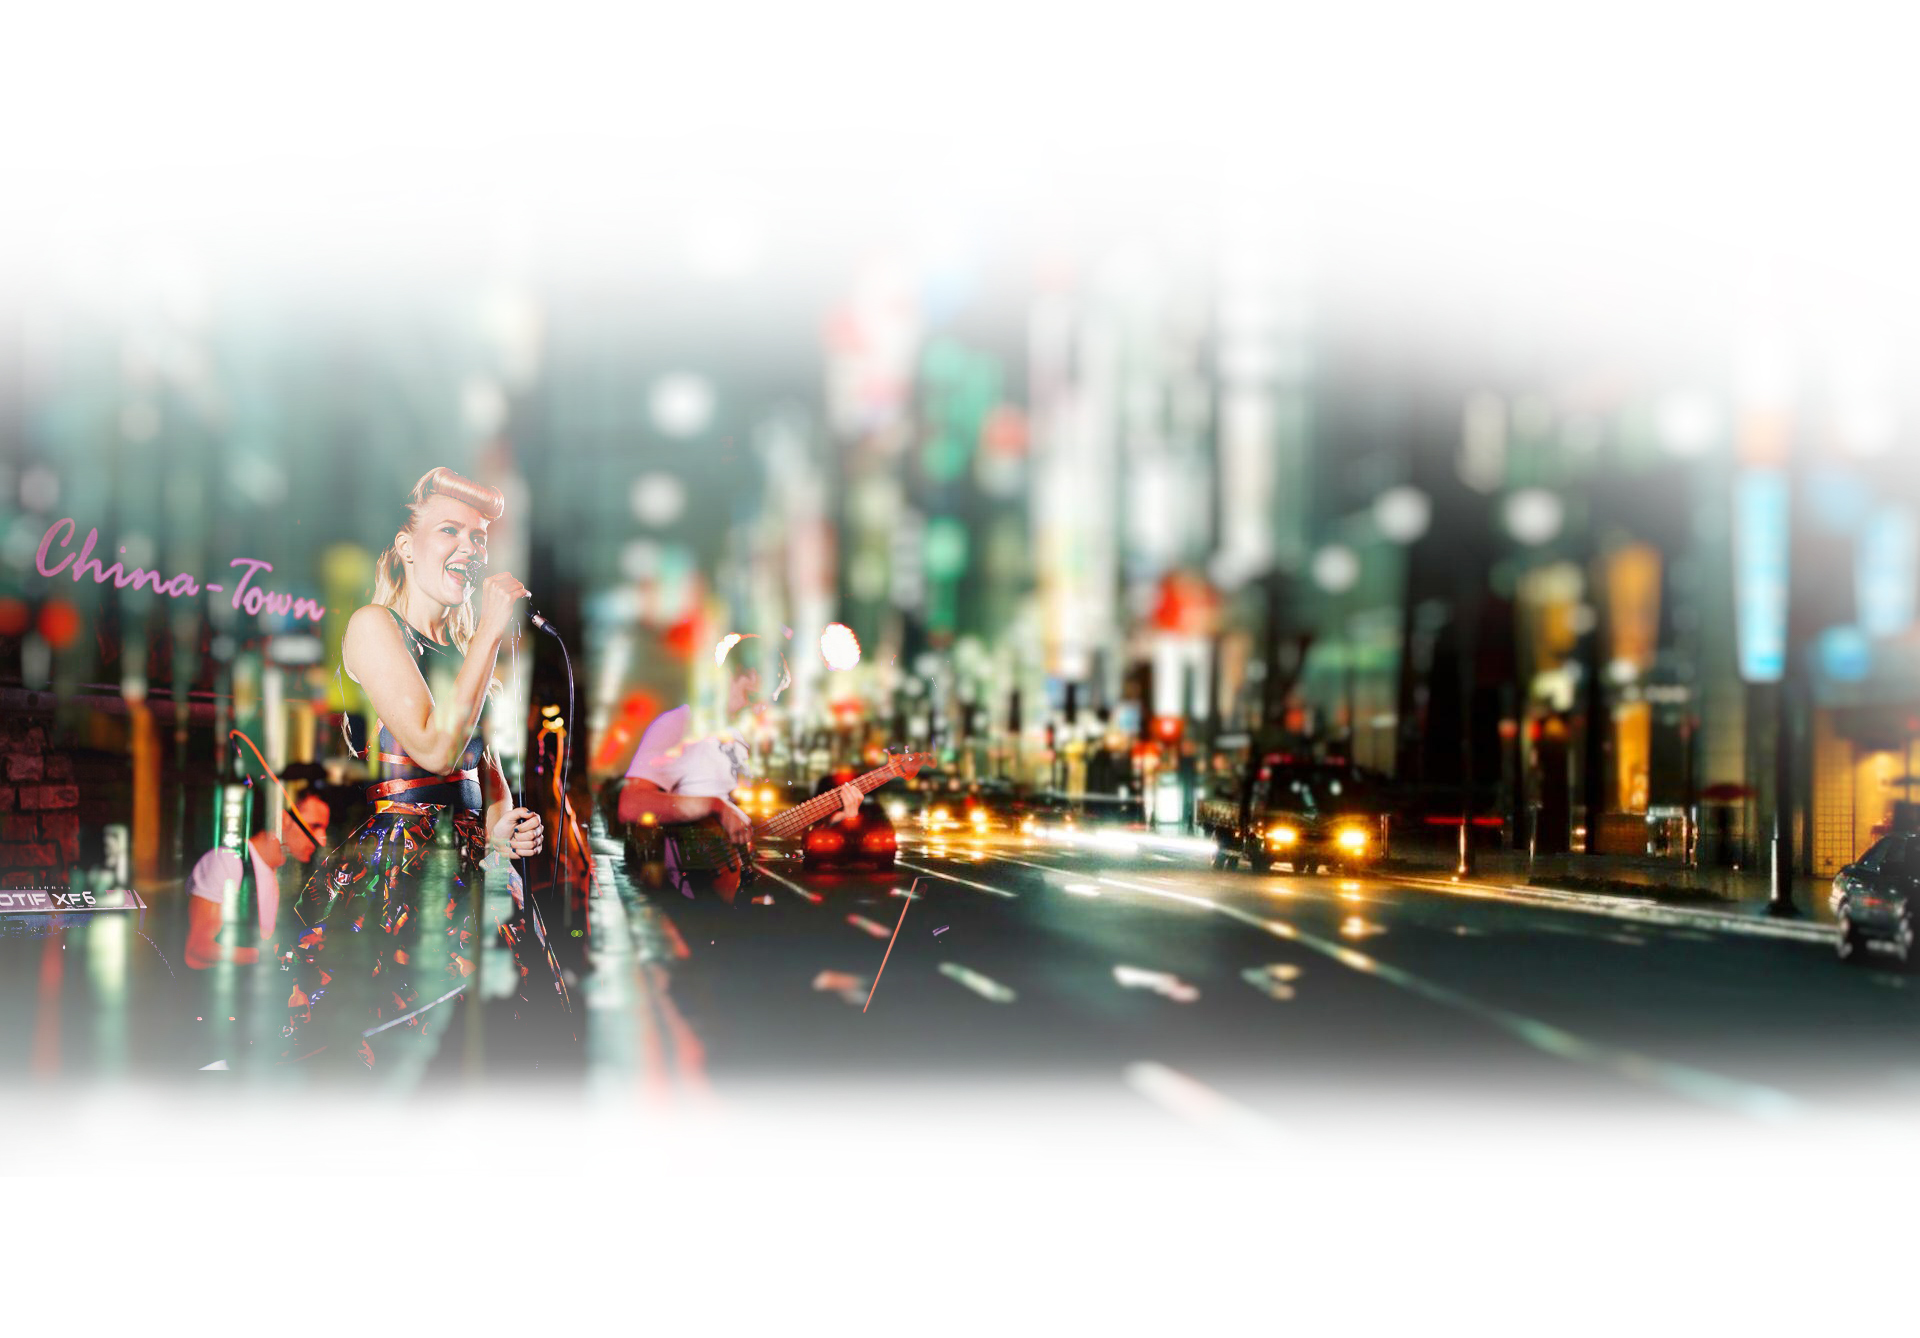
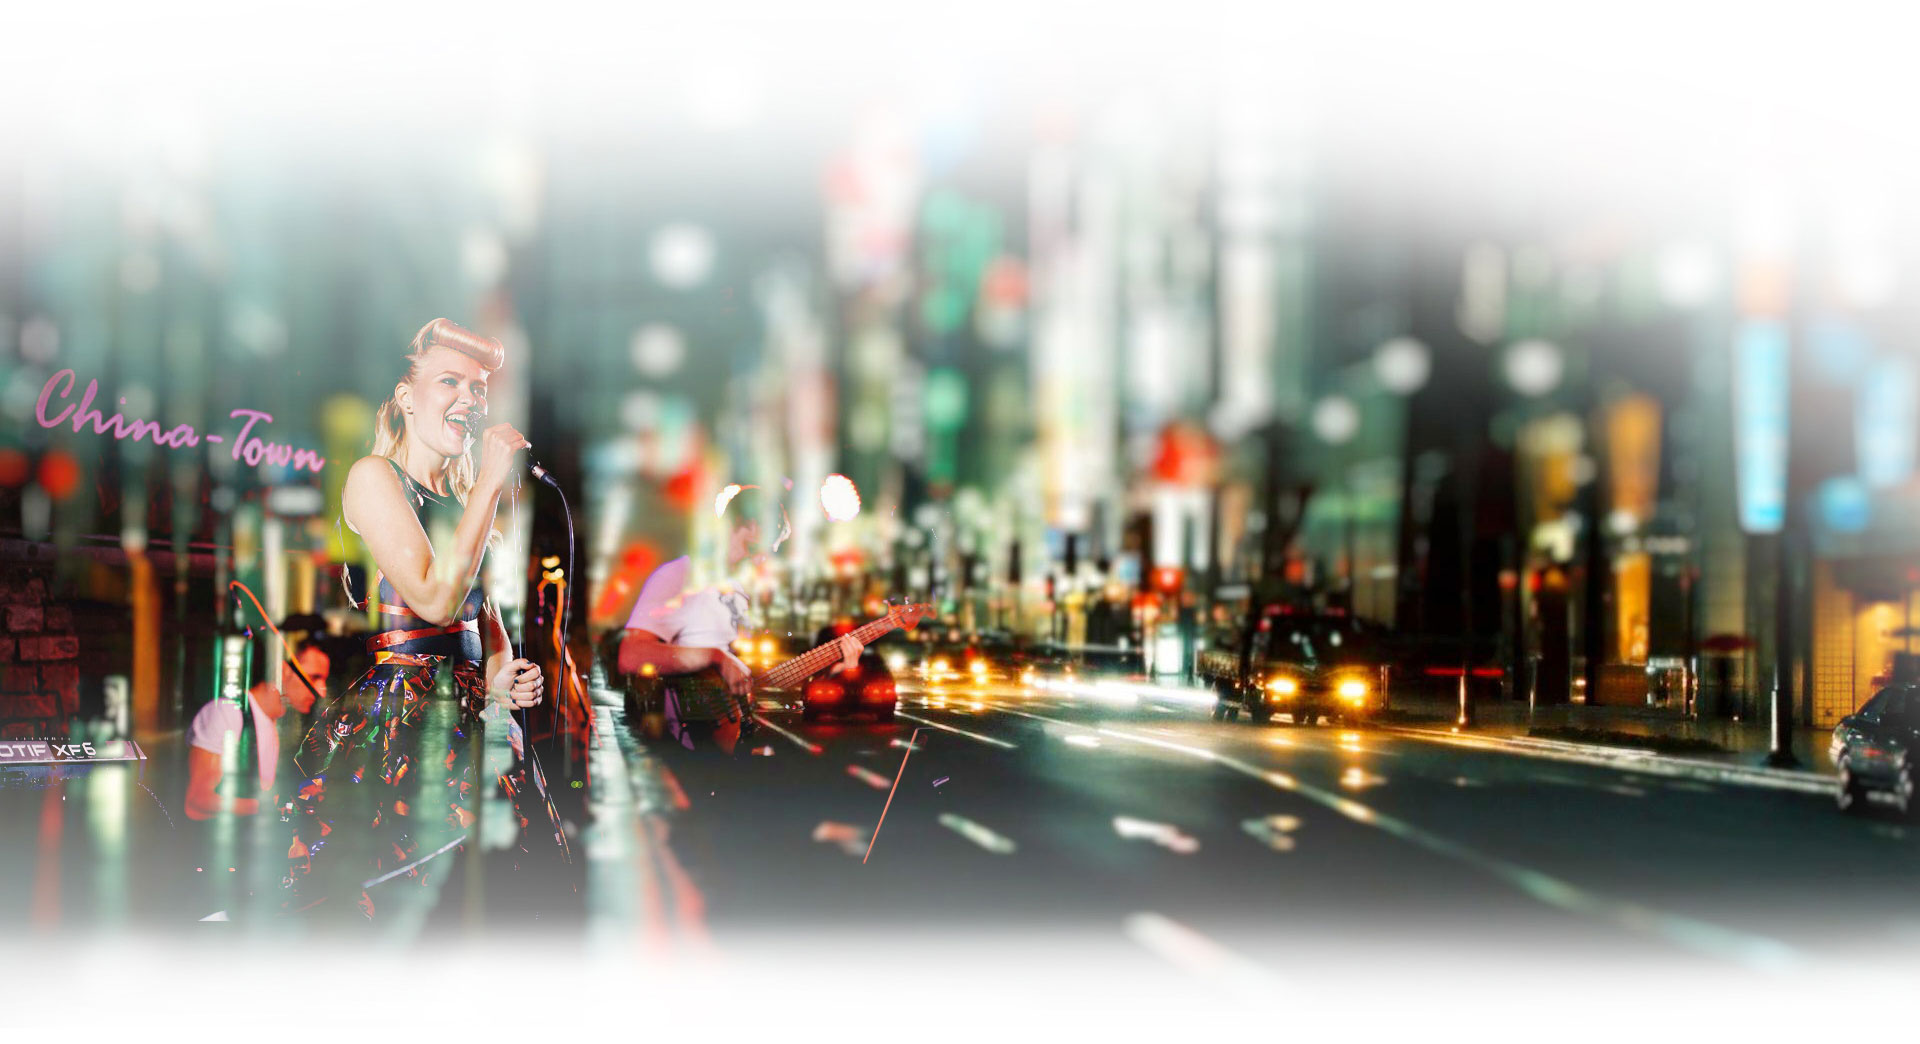
fix

diff --git a/app/vocal.html b/app/vocal.html
@@ -166,6 +166,7 @@
         </div>
 
     </div>
+    <img src="img/vocal/pc.jpg" alt="">
 </section>
 
 <section class="block-3">
@@ -407,7 +408,89 @@
                 </div>
             </div>
 
+            <div id="carousel-example-generic" class="carousel slide" data-ride="carousel">
+                <!-- Indicators -->
+                <ol class="carousel-indicators">
+                    <li data-target="#carousel-example-generic" data-slide-to="0" class="active"></li>
+                    <li data-target="#carousel-example-generic" data-slide-to="1"></li>
+                    <li data-target="#carousel-example-generic" data-slide-to="2"></li>
+                </ol>
 
+                <!-- Wrapper for slides -->
+                <div class="carousel-inner" role="listbox">
+                    <div class="item active">
+                        <div class="row">
+                            <div class="col-md-4">
+                                <img src="img/vocal/review1.jpg" alt="" class="img-responsive">
+                            </div>
+                            <div class="col-md-8">
+                                <p class="review-text">
+                                    Хотелось выразить огромную благодарность преподавателям GuitarPlays. Очень хочется рассказать об учителе по вокалу, Ане. Прекрасный преподаватель, талантливая певица с удивительным голосом и чуткий, замечательный человек. Когда я начала ходить на гитару, то поняла, что владение голосом тоже очень важно, и гитара, и голос как два крыла птицы, гармоничное сочетание которых необходимо для полета. С каждым уроком прибавляется уверенность в себе, лучше чувствуешь свой голос, ощущаешь и слышишь музыку, Аня, как опытный дирижер, направляет, поправляет и помогает раскрыть новые возможности голоса, пробуждая желать петь, петь и еще раз петь!
+                                </p>
+                                <p class="review-author">
+                                    <a href="https://vk.com/topic-75660020_31509713?post=88" target="_blank">
+                                        Полина Ильина
+                                    </a>
+                                </p>
+                            </div>
+                        </div>
+                    </div>
+                    <div class="item">
+                        <div class="row">
+                            <div class="col-md-4 col-md-push-8">
+                                <img src="img/vocal/review2.jpg" alt="" class="img-responsive">
+                            </div>
+                            <div class="col-md-8 col-md-pull-4">
+                                <p class="review-text">
+                                    Хочу сказать огромное спасибо преподавателю
+                                    по вокалу - Ане!!! Ходить к ней на занятия одно удовольствие) Аня профессиональный, внимательный, чуткий преподаватель, который находит особенный подход к ученику. Всегда подскажет и доступно объяснит, что нужно сделать и как сделать это правильно! Действительно переживает за свое
+                                    дело, за ученика, за его прогресс и результат)
+                                    Часто рекомендует материал для расширения музыкальных горизонтов, что очень здорово!)
+                                    И всегда учит, что главное – это получать от
+                                    всего этого дела кайф) Так и выходит)
+
+                                    А еще Аня замечательный и приятный
+                                    в общении человек
+
+
+
+                                </p>
+                                <p class="review-author">
+                                    <a href="https://vk.com/topic-75660020_31509713?post=89" target="_blank">Арина Цой</a>
+
+                                </p>
+                            </div>
+
+
+                        </div>
+                    </div>
+                    <div class="item">
+                        <div class="row">
+                            <div class="col-md-4">
+                                <img src="img/vocal/review3.jpg" alt="" class="img-responsive">
+                            </div>
+                            <div class="col-md-8">
+                                <p class="review-text">
+                                    Всё началось с того, что увидела вывеску GuirarPlays
+                                    и решила спросить есть уроки вокала, оказывается
+                                    в этой школе есть чудесный преподаватель, гуру по пению Аня!!! Очень грамотный педагог, можно с нуля научиться красиво петь!!! Моя мечта сбылась, я с каждым уроком все красивее и лучше пою, это уникальная возможность развить свой голос и управлять им не только в пении и в жизни!!!
+                                </p>
+                                <p class="review-author">
+                                    <a href="https://vk.com/topic-75660020_31509713?post=94" target="_blank">Ольга Лукичева</a>
+                                </p>
+                                <a href="https://vk.com/topic-75660020_31509713" target="_blank">
+                                    <button class="header--form__btn">Больше отзывов</button>
+                                </a>
+                            </div>
+                        </div>
+                    </div>
+                </div>
+
+                <a href="https://vk.com/topic-75660020_31509713?post=88" target="_blank">
+                    <button class="header--form__btn">Больше отзывов</button>
+                </a>
+
+            </div>
         </div>
     </div>
 </section>

diff --git a/app/sass/main.sass b/app/sass/main.sass
@@ -587,10 +587,8 @@ h2
   #myModal .modal-content
     background: url("../img/vocal/vocal-bg-modal.jpg")
   .block-2
-    background: url("../img/vocal/pc.jpg") no-repeat
-    background-size: contain
-    background-position-y: 400px
-    padding-bottom: 1338px
+    background: none !important
+    padding-bottom: 0
   .block-3
     background-position: bottom center
   .block-3__gallery img

diff --git a/app/css/main.css b/app/css/main.css
@@ -629,10 +629,8 @@ h2 {
   background: url("../img/vocal/vocal-bg-modal.jpg"); }
 
 .vocal .block-2 {
-  background: url("../img/vocal/pc.jpg") no-repeat;
-  background-size: contain;
-  background-position-y: 400px;
-  padding-bottom: 1338px; }
+  background: none !important;
+  padding-bottom: 0; }
 
 .vocal .block-3 {
   background-position: bottom center; }
